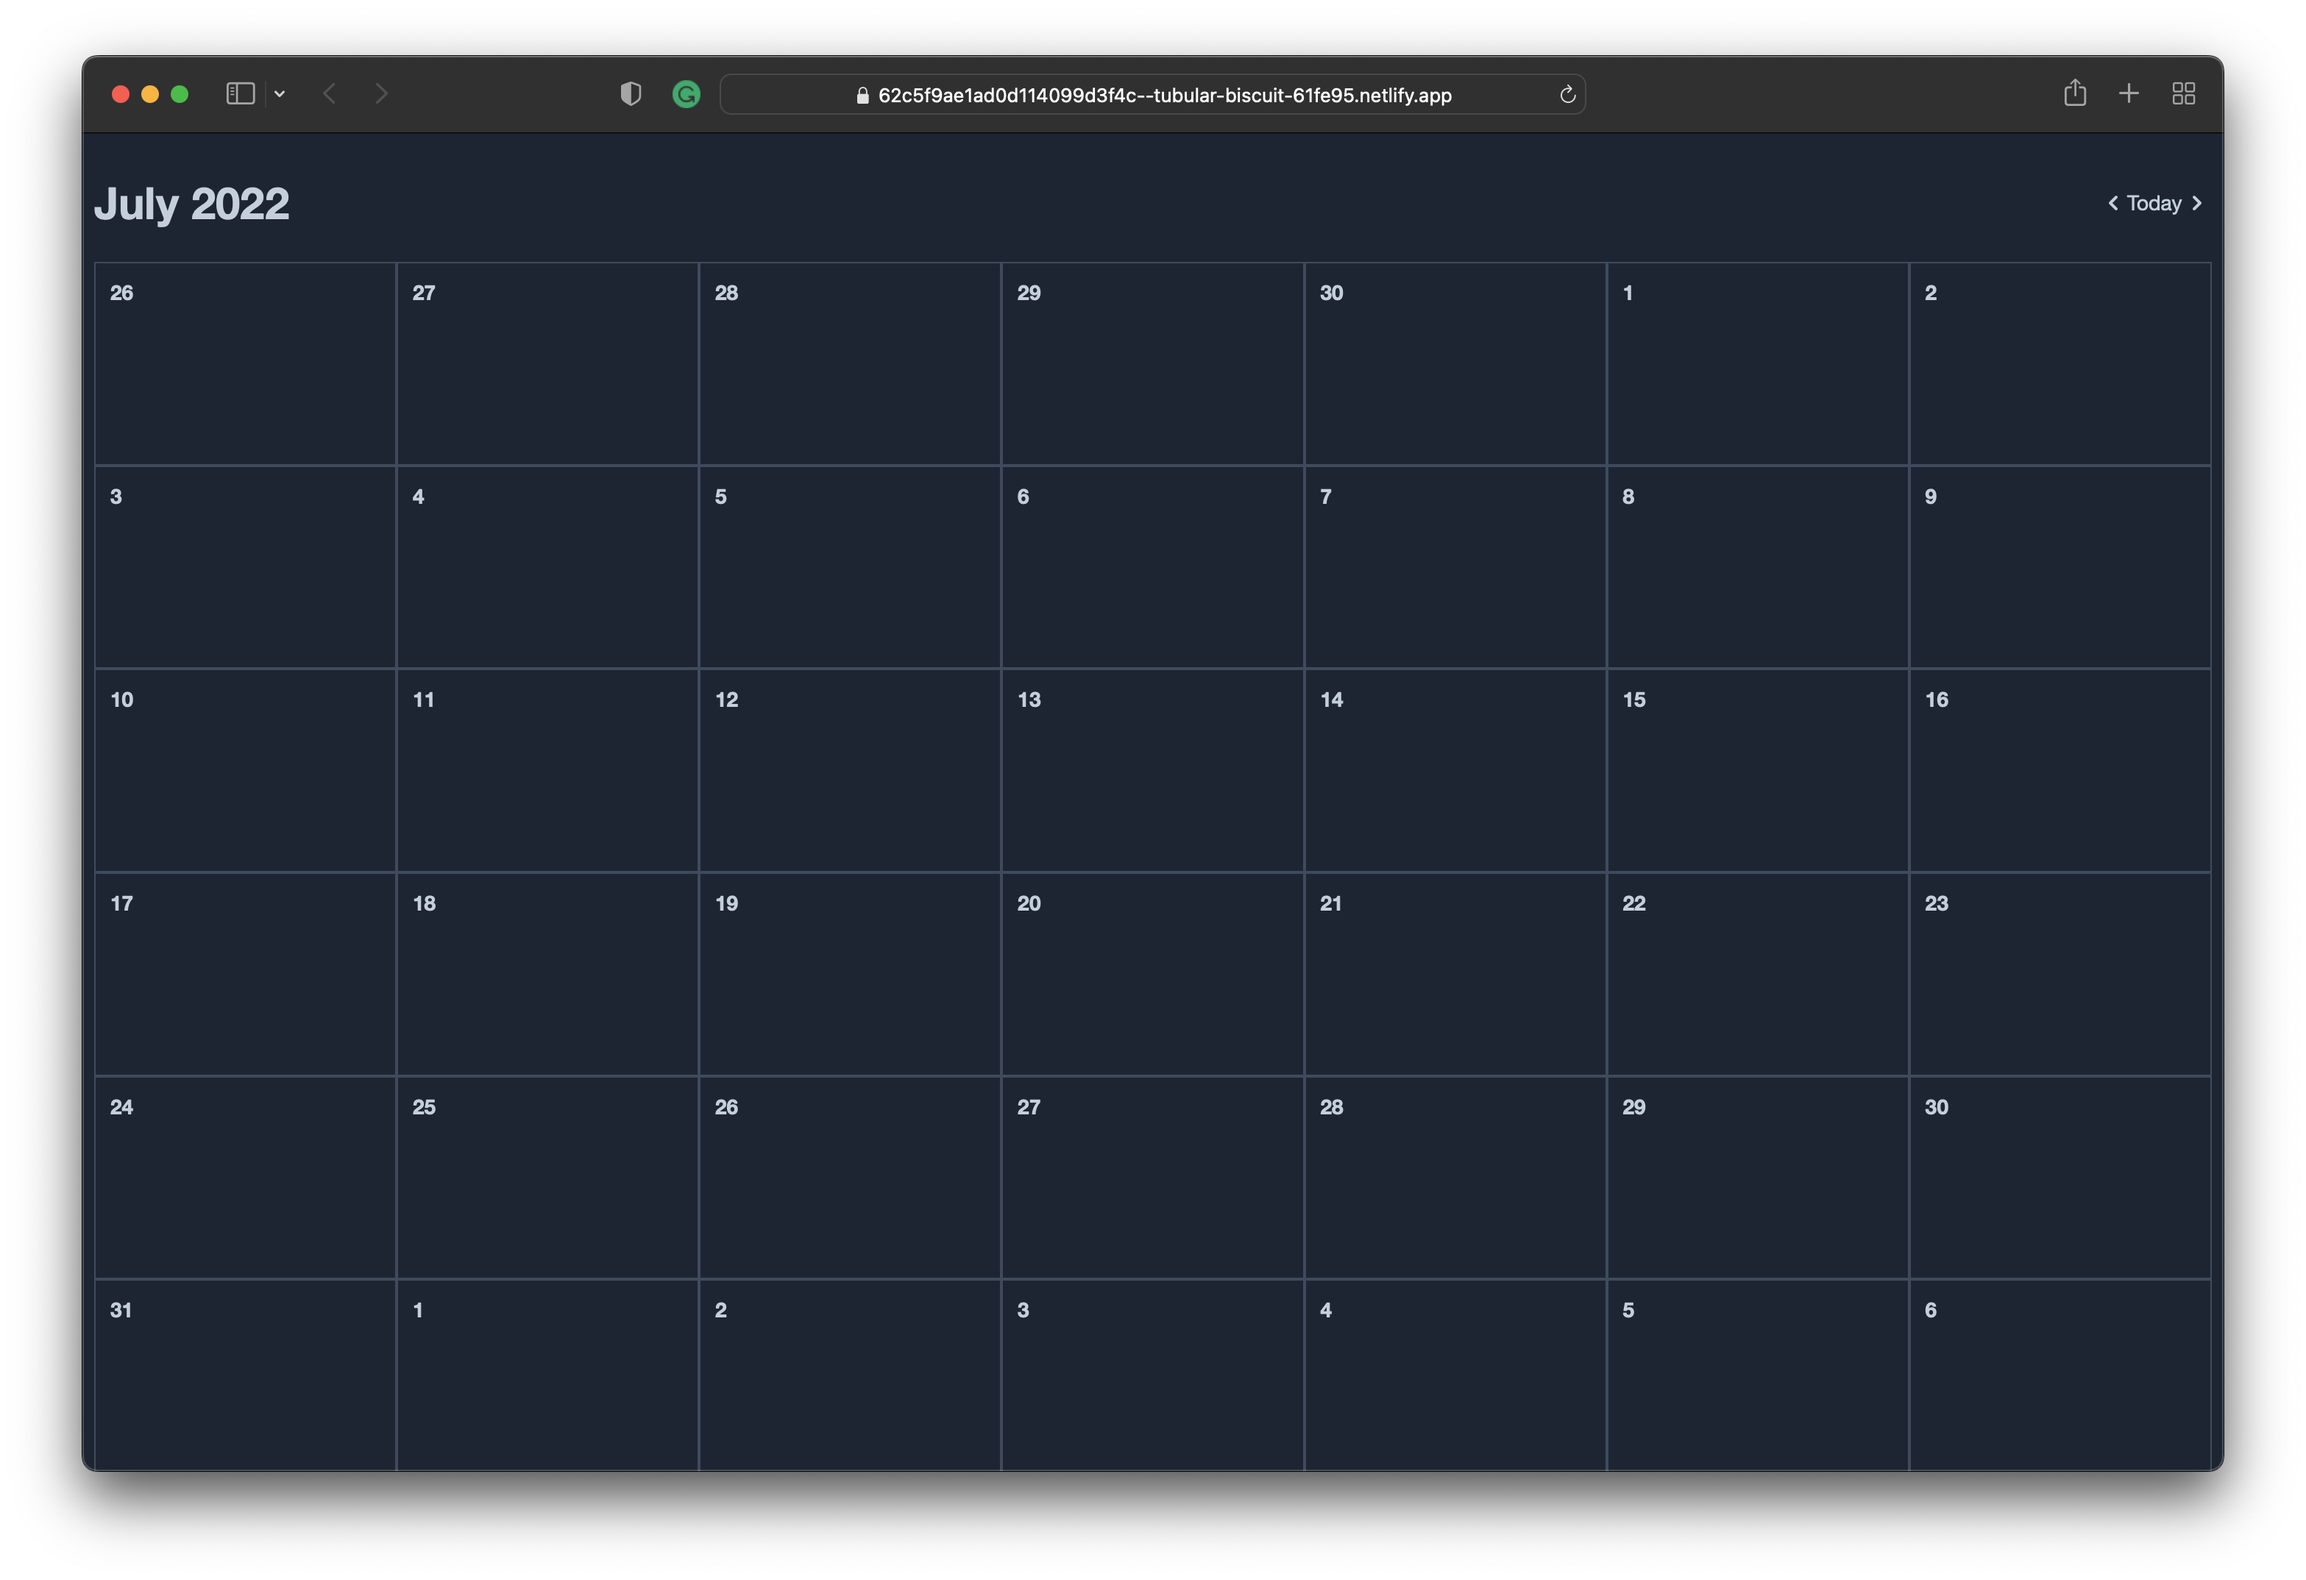
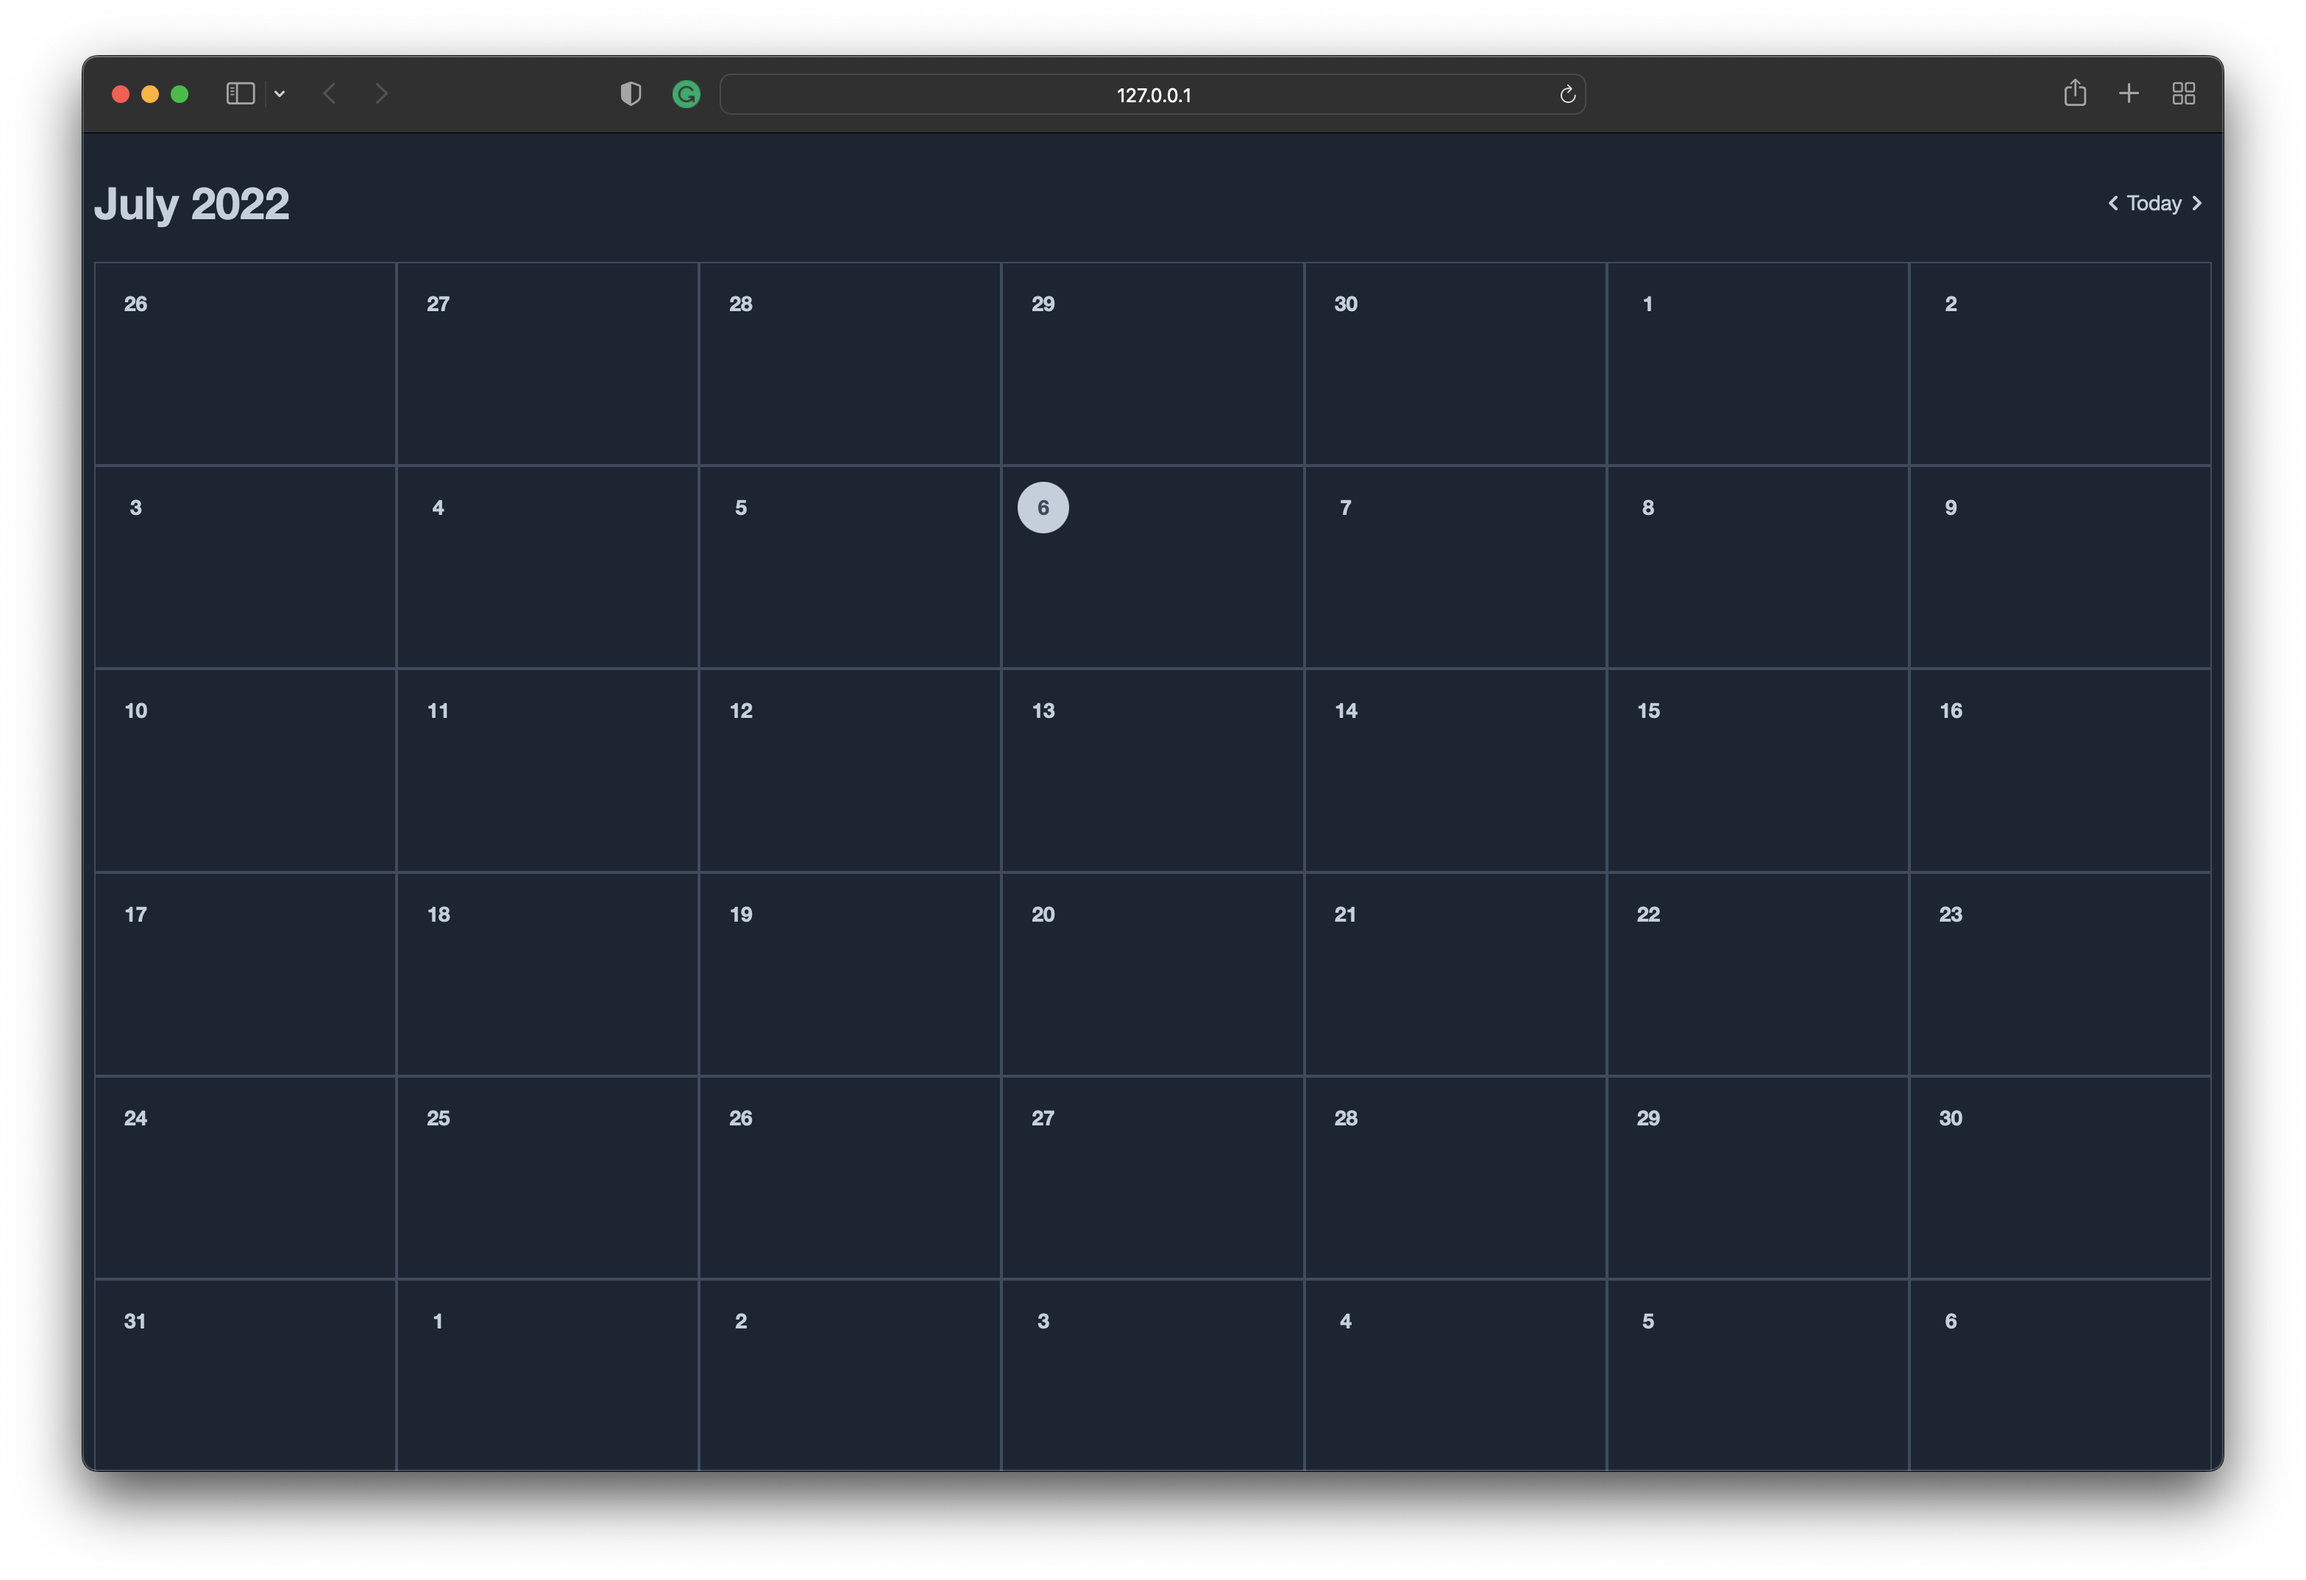
docs and readme

diff --git a/examples/index.html b/examples/index.html
@@ -52,6 +52,17 @@
       position: absolute;
       top: 1;
       left: 1;
+      height: 35px;
+      width: 35px;
+      border-radius: 50%;
+      display: flex;
+      justify-content: center;
+      align-items: center;
+    }
+
+    .day-number.active {
+      background-color: #cbd5e1;
+      color: #475569;
     }
   </style>
 </head>
@@ -91,7 +102,7 @@
           <div class="week">
             ${matrix.current.weeks[i].days.map(day => /*html*/`
               <div class="day">
-                <div class="day-number">${parseInt(day.date.split('-')[2])}</div>
+                <div class="day-number ${day.isToday && 'active'}">${parseInt(day.date.split('-')[2])}</div>
               </div>
             `).join('')}
           </div>

diff --git a/docs/.vitepress/config.js b/docs/.vitepress/config.js
@@ -20,7 +20,7 @@ export default {
         ]
       },
       {
-        text: 'Examples',
+        text: 'Basic Examples',
         items: [
           { text: 'Demo', link: '/example-demo' },
           { text: 'Vue', link: '/example-vue' },
@@ -29,6 +29,14 @@ export default {
           { text: 'Svelte', link: '/example-svelte' },
           { text: 'Vanilla', link: '/example-vanilla' },
           { text: 'RXJS', link: '/example-rxjs' },
+        ]
+      },
+      {
+        text: 'Advanced Examples',
+        items: [
+          { text: 'Mobile', link: '/example-mobile' },
+          { text: 'Week View', link: '/example-week-view' },
+          { text: 'Day View', link: '/example-week-view' },
         ]
       }
     ]

diff --git a/README.md b/README.md
@@ -1,1 +1,150 @@
-## 
+# Headless Calendar Fns
+
+An extendible, pure, function that returns a matrix of years, months, days, hours, and minuets for a given view and period of time. 
+
+Perfect for building a calendar ui, no matter what ui library you use, even vanilla js.
+
+## Installation
+
+### Node
+```bash
+yarn add headless-calendar-fns
+```
+
+_or use npm or pnpm_
+
+### CDN 
+```html
+<script src="https://unpkg.com/headless-calendar-fns@latest/dist/headless-calendar-fns.js"></script>
+```
+
+## Basic Useage
+
+A basic view may be to create a matrix of _months_, _weeks_, and _days_.
+
+```js
+import createMatrix from 'headless-calendar-fns';
+
+let matrix = createMatrix({
+  view: 'month',
+  year: 2022,
+  month: 1,
+})
+
+```
+
+This will return an object with `prev`, `next`, and `current` where current will be the current month provided (_February, 2022_ in this case). `prev` and `next` will be the previous and next months. 
+
+Each _matrix_ (current, prev, next) depneds on the view, but in the case of the _month_ view, it will include:
+
+* `year`: the year (_2022_ in this case)
+* `month`: the month (_1_ in this case)
+* `weeks`: An array of weeks views
+  * `days`: An array of days views
+    * `date`: the date of this day
+    * `day`: the day of the week (_0_ to _6_)
+    * `isToday`: whether this day is today (`true` or `false`)
+    * `isWeekend`: whether this day is a weekend (`true` or `false`)
+    * `week`: the week of the month (`1` to `5`)
+    * `month`: the month of the year (`1` to `12`)
+    * `year`: the year (`2022` in this case)
+  * `week`: the week of the month (`1` to `5`)
+  * `month`: the month of the year (`1` to `12`)
+  * `year`: the year (`2022` in this case)
+
+```js
+let response = {
+  view: 'year',
+  current: {
+    view: 'year',
+    months: [
+      {
+        weeks: [ 
+          {
+            days: [
+            {
+              date: '2020-01-04',
+              isToday: false,
+              isWeekend: true,
+              day: 6,
+              week: 0,
+              month: 0,
+              year: 2020,
+            },
+            ...
+          ],
+          week: 0,
+          year: 2020,
+          month: 0,
+        }
+          ...
+        ],
+        month: 1,
+        year: 2020
+      },
+      ...
+    ]
+  },
+  prev: { ... },
+  next: { ... }
+}
+```
+
+## Include/Disinclude Views
+
+If you want to either include some views, or disinclude them, you can pass in the following options:
+
+* `includeWeeks`: whether to include the weeks view (`true` or `false`)
+  * Default: `true`
+* `includeDays`: whether to include the days view (`true` or `false`)
+  * Default: `true`
+* `includeHours`: whether to include the hours view (`true` or `false`)
+  * Default: `false`
+* `includeMinutes`: whether to include the minutes view (`true` or `false`)
+  * Default: `false`
+
+```js
+import createCalendar from 'headless-calendar-fns';
+
+let matrix = createCalendar({
+  view: 'year',
+  year: 2022,
+  month: 1,
+  includeWeeks: false,
+  includeDays: false,
+})
+
+let response = {
+  view: 'year',
+  current: {
+    view: 'year',
+    months: [
+      {
+        month: 1,
+        year: 2020
+      },
+      ...
+    ]
+  },
+  prev: { ... },
+  next: { ... }
+}
+
+```
+
+## Views
+
+When you pick a view, that is your starting point. So by choosing `year` as your view, you are going to get a matrix of a year with it's months, etc.
+
+If you choose `month` as the view, then you will just get a month with a matrix of weeks, etc.
+
+```ts
+export enum MatrixViews {
+  year = 'year',
+  month = 'month',
+  week = 'week',
+  day = 'day',
+  hour = 'hour',
+  minute = 'minute'
+}
+```

diff --git a/docs/example-vanilla.md b/docs/example-vanilla.md
@@ -1,87 +1,26 @@
 # Vanilla Example
 
-An example with just html, javascript, and css. 
+An example with just html, javascript, and css 🍦. 
 
-The site is live [here](https://62c5f9ae1ad0d114099d3f4c--tubular-biscuit-61fe95.netlify.app).
+The site is live [here](https://tubular-biscuit-61fe95.netlify.app).
 
 ![Vailla Demo](vanilla-demo.png)
 
 ## The Code
 
-Also avliable [here on github](https://github.com/nickgraffis/headless-calendar-fns/tree/master/examples/vanilla).
+Also avliable [here on github](https://github.com/nickgraffis/headless-calendar-fns/blob/master/examples/index.html).
 
-```html
+```html {16-39}
 <!DOCTYPE html>
 <html lang="en">
 <head>
   <style>
-    body {
-      font-family: "Helvetica Neue", Helvetica, Arial, sans-serif;
-      font-size: 14px;
-      line-height: 20px;
-      color: #cbd5e1;
-      background-color: #1e293b;
-    }
-
-    .w-5 {
-      width: 1.25rem;
-    }
-
-    .h-5 {
-      height: 1.25rem;
-    }
-
-    .calendar {
-      height: 100vh;
-      width: 100%;
-      display: flex;
-      flex-direction: column;
-    }
-
-    #calendar {
-      flex-grow: 1;
-      width: 100%;
-      display: flex;
-      flex-direction: column;
-    }
-
-    .week {
-      display: flex;
-      flex-grow: 1;
-      height: 100%;
-    }
-
-    .day {
-      flex-grow: 1;
-      border: 1px solid #475569;
-      padding: 10px;
-      text-align: center;
-      position: relative;
-    }
-
-    .day-number {
-      font-weight: 700;
-      font-size: 1em;
-      position: absolute;
-      top: 1;
-      left: 1;
-    }
+   /* Styles Here */
   </style>
 </head>
 <body>
   <div class="calendar">
-    <div style="display: flex; justify-content: space-between; align-items: center;">
-      <p id="current-month" style="font-size: 30px; font-weight: 900;"></p>
-      <div style="display: flex; align-items: center;">
-        <svg id="prev" xmlns="http://www.w3.org/2000/svg" class="h-5 w-5" viewBox="0 0 20 20" fill="currentColor">
-          <path fill-rule="evenodd" d="M12.707 5.293a1 1 0 010 1.414L9.414 10l3.293 3.293a1 1 0 01-1.414 1.414l-4-4a1 1 0 010-1.414l4-4a1 1 0 011.414 0z" clip-rule="evenodd" />
-        </svg>
-        <span id="today">Today</span>
-        <svg id="next" xmlns="http://www.w3.org/2000/svg" class="h-5 w-5" viewBox="0 0 20 20" fill="currentColor">
-          <path fill-rule="evenodd" d="M7.293 14.707a1 1 0 010-1.414L10.586 10 7.293 6.707a1 1 0 011.414-1.414l4 4a1 1 0 010 1.414l-4 4a1 1 0 01-1.414 0z" clip-rule="evenodd" />
-        </svg>
-      </div>
-    </div>
+    <!-- Heading and Buttons -->
     <div id="calendar"></div>
   </div>
   <script src="headless-calendar-fns.umd.js"></script>
@@ -104,7 +43,7 @@ Also avliable [here on github](https://github.com/nickgraffis/headless-calendar-
           <div class="week">
             ${matrix.current.weeks[i].days.map(day => /*html*/`
               <div class="day">
-                <div class="day-number">${parseInt(day.date.split('-')[2])}</div>
+                <div class="day-number ${day.isToday && 'active'}">${parseInt(day.date.split('-')[2])}</div>
               </div>
             `).join('')}
           </div>
